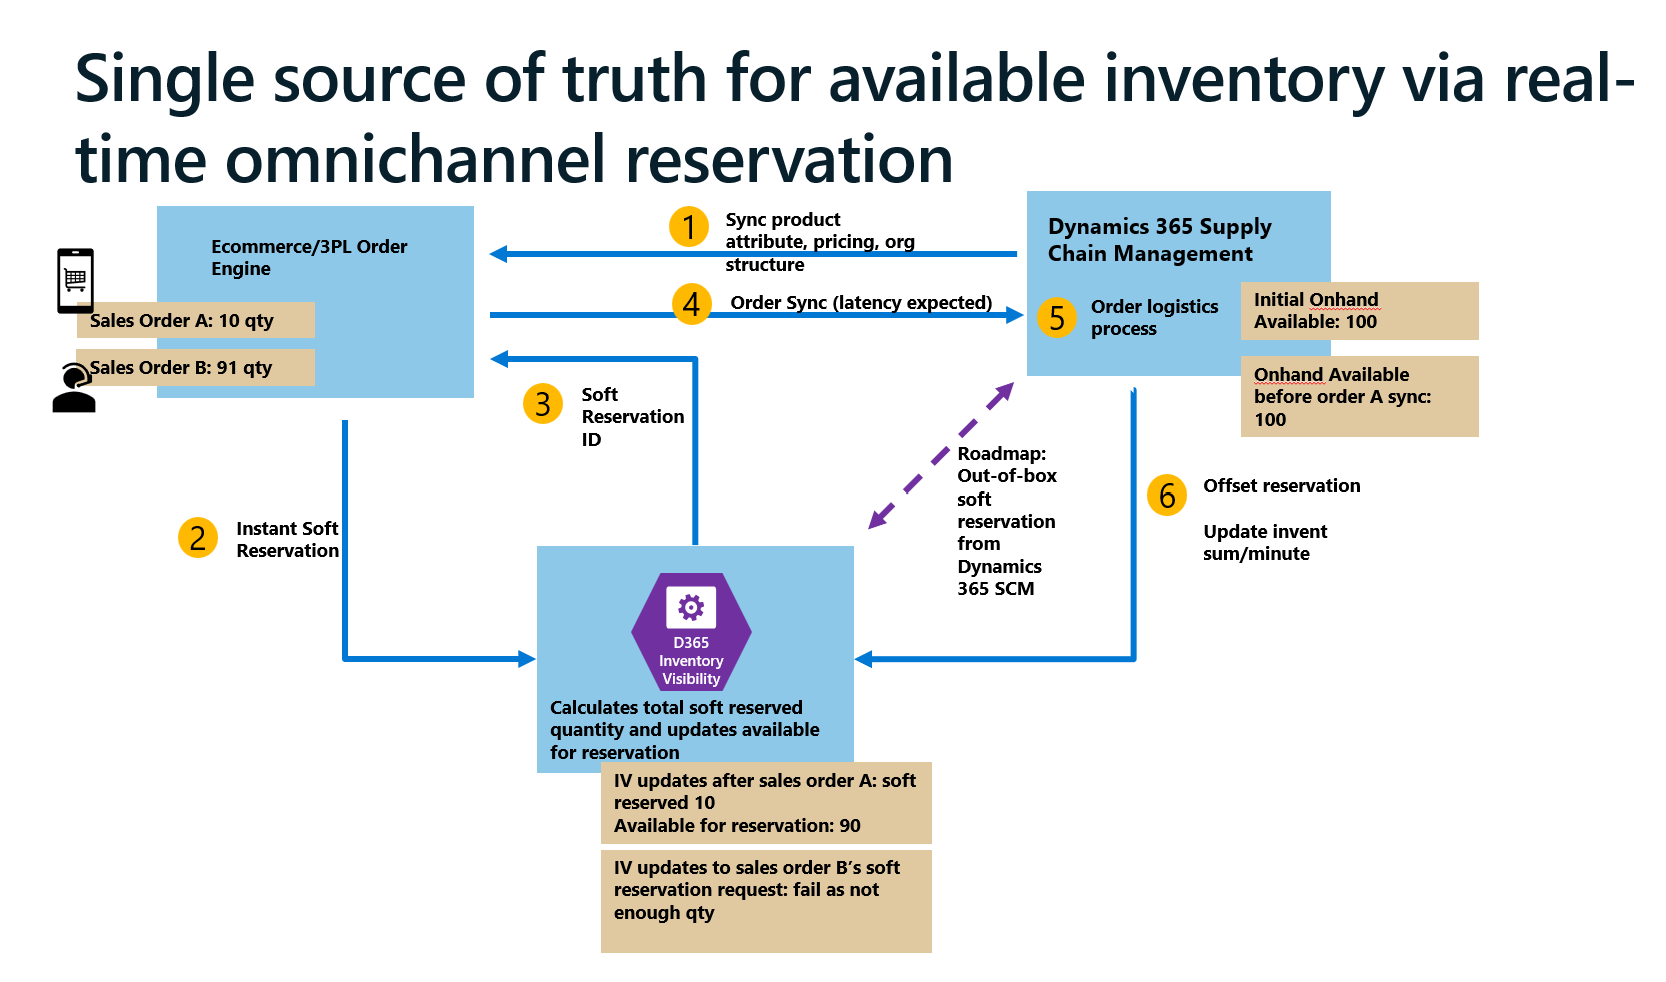
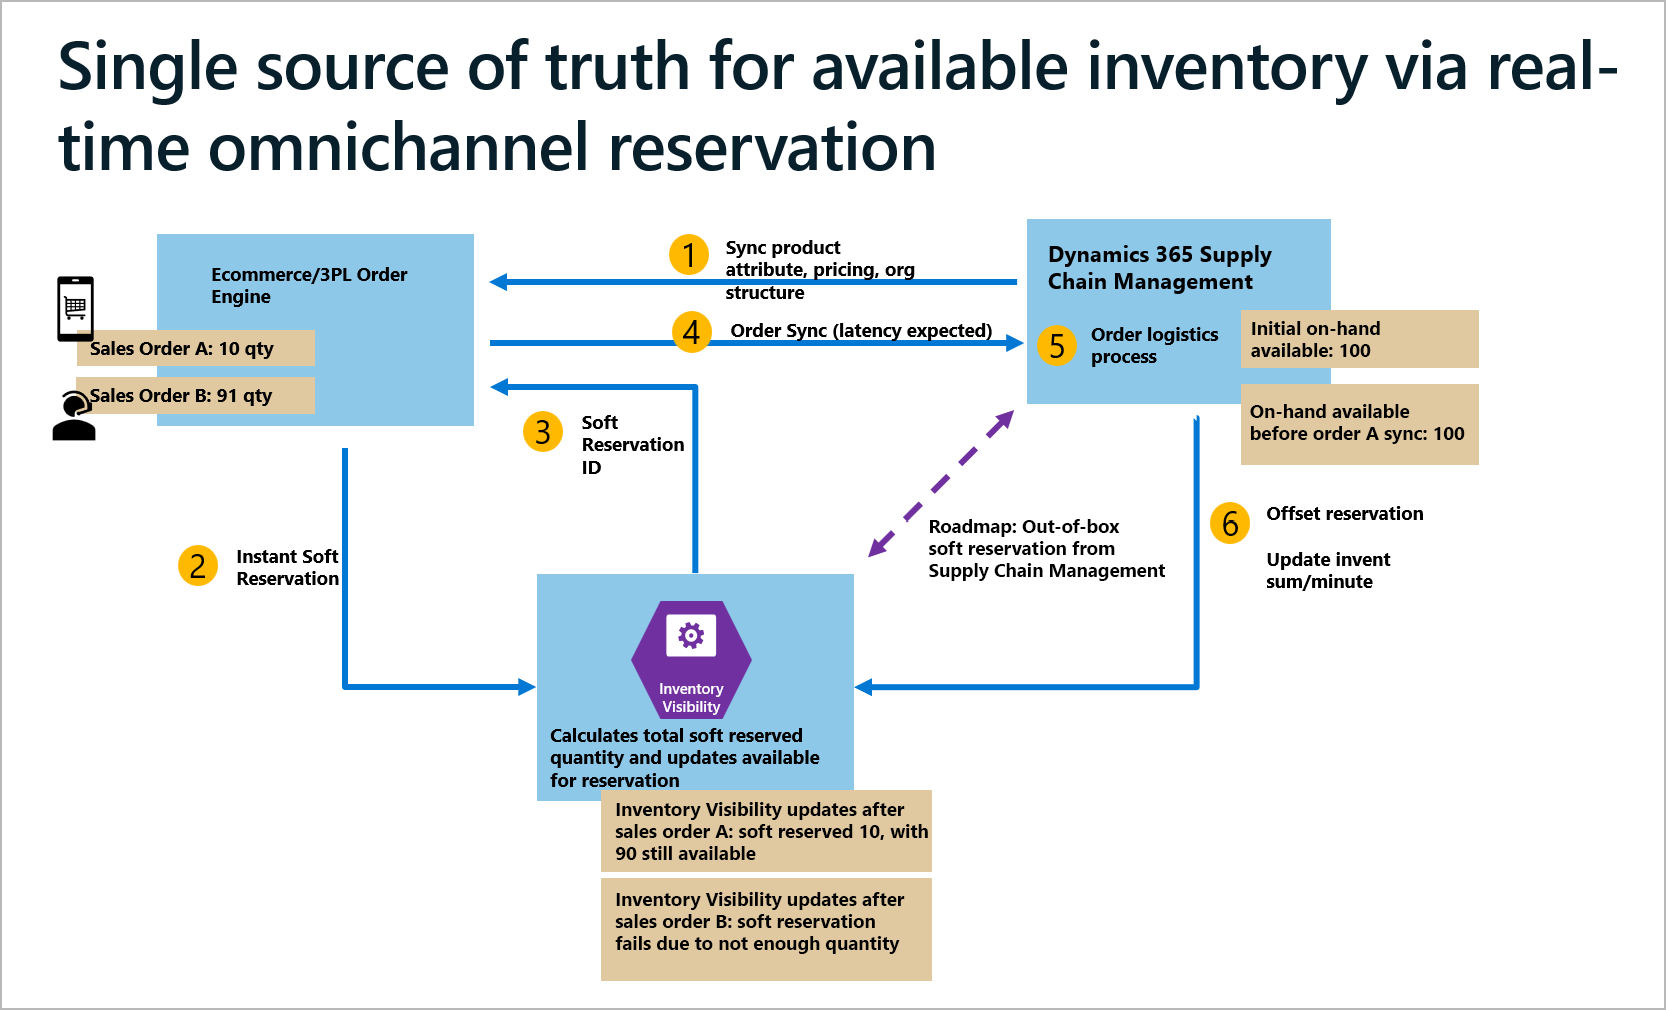
review

diff --git a/articles/supply-chain/inventory/inventory-visibility-reservations.md b/articles/supply-chain/inventory/inventory-visibility-reservations.md
@@ -21,30 +21,33 @@ This article describes a typical use case for soft reservations and explains how
 
 ## Sample use case for soft reservation
 
-<!--KFM: Continue here -->
+Soft reservations help organizations achieve a single source of truth for available inventory, especially during the order fulfillment process. This functionality is useful for organizations where the following conditions exist:
 
-Soft reservations help organizations achieve a single source of truth for available inventory, especially during order fulfillment process. This functionality is useful for organizations that fulfill the following criteria:
+- The organization has at least two different systems that are directly taking outbound orders.
+- The organization is very strict and wants to prevent double-booking product inventory, which can happen if multiple systems are able to overbook the last piece of stock. This is prevented when all order systems can make instant soft reservation API calls to Inventory Visibility, which provides a single source of truth for inventory availability.
 
-- At least two different systems that are directly taking outbound orders
-- Your organization is very strict and cares about double-booking on exactly the same set of product inventory. It can happen if the two or more systems are overbooking the last piecen of stock hence making instant soft reservation API call to inventory visibility directly from each order systems are key to achieve a source of truth for inventory availability.
+<!-- KFM: The following link isn't valid. Not sure what we are talking about here. 
 
 Otherwise you can simply leverage the [Inventory Adjustment via onhand change posting](TBD) feature that you can first query inventory availability, and make a separate inventory adjustment call to deduct the available inventory.
 
-![Inventory Visibility soft reservation](media/inventory-visibility-soft-reservation.png "Inventory Visibility soft reservation")
-This sample flow explains how soft reservation works
+-->
 
-- Your initial inventory level is synchronized to Inventory Visibility add-in from inventory management system Dynamics 365 SCM
-- Soft reservations are posted from each of your order channel/system to Inventory Visibility, Inventory Visibility will perform inventory availability validation and proceed soft reservation. Upon successful soft reservation, Inventory Visibility will add to soft reserved quantity, deduct available for reservation (AFR) quantity and also respond with a soft reservation ID.
-- At this time your physical inventory quantity remains the same
-- You can then synchronize either single or aggregated successfully soft reserved orders (order lines) into Dynamics 365 SCM to do hard reservation/release to warehouse or simply final inventory update. 
-- With proper configuration [Offset soft reservations](inventory-visibility-reservations.md#offset-reservations-in-supply-chain-management) the soft reservation can be offset upon physical inventory update in Dynamcis 365 SCM.
+[<img src="media/inventory-visibility-soft-reservation.png" alt="Inventory Visibility soft reservation." title="Inventory Visibility soft reservation" width="720" />](media/inventory-visibility-soft-reservation.png)
 
-Soft reservations are normally created, consumed, and canceled by using API calls to the Inventory Visibility service. 
+The previous illustration shows how soft reservation works and highlights the following operations:
+
+- Your initial inventory level is synchronized to Inventory Visibility from Supply Chain Management.
+- Soft reservations are posted from each of your order channels/systems to Inventory Visibility. Inventory Visibility validates inventory availability and tries to make a soft reservation. If soft reservation succeeds, Inventory Visibility adds to the soft reserved quantity, deducts from the available for reservation (AFR) quantity, and respond with a soft reservation ID.
+- At this time, your physical inventory quantity remains the same.
+- You can then synchronize either single or aggregated soft-reserved orders (order lines) into Supply Chain Management to make hard reservations and release to warehouse or update the final inventory quantity.
+- You can set the system to [offset soft reservations](inventory-visibility-reservations.md#offset-reservations-in-supply-chain-management) so that soft reservation are offset when physical inventory is updated in Supply Chain Management.
+
+Soft reservations are normally created, consumed, and canceled by using API calls to the Inventory Visibility service.
 
 > [!NOTE]
-> You can optionally set up Microsoft Dynamics 365 Supply Chain Management (and other third-party systems) to automatically offset the quantity that has been reserved by using Inventory Visibility. The offset quantity is deleted from the reservation records in Inventory Visibility.
->By default the offset function is automatically on when you enable soft reservation feature.
-
+> You can optionally set up Supply Chain Management (and other third-party systems) to automatically offset the quantity that has been reserved by using Inventory Visibility. The offset quantity is deleted from the reservation records in Inventory Visibility.
+>
+> By default, the offset function is automatically turned on when you enable the soft reservation feature.
 
 ## <a name="turn-on"></a>Turn on and set up the reservation feature
 
@@ -53,11 +56,11 @@ To turn on the reservation feature, follow these steps.
 1. Sign into Power Apps and open **Inventory Visibility**.
 1. Open the **Configuration** page.
 1. On the **Feature Management** tab, turn on the *OnHandReservation* feature.
-1. Sign in to Dynamcis 365 Supply Chain Management environment.
+1. Sign in to Supply Chain Management environment.
 1. Go to the **[Feature management](../../fin-ops-core/fin-ops/get-started/feature-management/feature-management-overview.md)** workspace and enable the *Inventory Visibility integration with reservation offset* feature (requires version 10.0.22 or later).
 1. Go to **Inventory Management \> Setup \> Inventory Visibility integration parameters**, open the **Reservation offset** tab and make the following settings:
     - **Enable reservation offset** – Set to *Yes* to enable this functionality.
-    - **Reservation offset modifier** – Select the inventory transaction status that will offset reservations made on Inventory Visibility. This setting determines the order processing stage that triggers offsets. The stage is traced by the order's inventory transaction status. Choose one of the following:
+    - **Reservation offset modifier** – Select the inventory transaction status that will offset reservations made on Inventory Visibility. This setting determines the order processing stage that triggers offsets. The stage is traced by the order's inventory transaction status. Choose one of the following values:
         - *On order* – For the *On order* status, an order will send an offset request when it's created. The offset quantity will be the quantity of the created order (line).
         - *Reserve* – For the *Reserve* status, an order will send an offset request when it's either reserve ordered or reserve physical. When you set offset at *Reserve* status, even if you skip the reservation in Dynamcis 365 SCM and continuous with the rest of inventory status, for example release to warehouse to pick and pack. The order will send offset request at any next inventory status you perform that is closest to reserved picked, for example, pick, packing-slip posted, or invoiced. The request will be triggered only once. If it's been triggered at pick, it will not duplicate the offset at packing-slip posted. The offset quantity will be the same quantity as inventory transaction status when the offset is triggerd, i.e. *Reserved ordered/Reserve Physical* (or later status) on the corresponding order line.
 1. Sign back into inventory visibility power app, go to **Configuration** > **Soft Reservation**, review default soft reservation hierarchy, add new dimensions onto the hierarchy if needed
